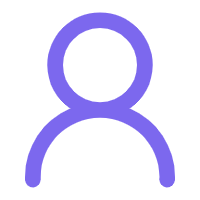
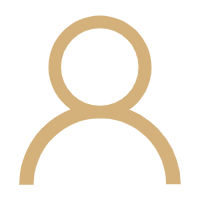
动态渲染商品列表数据。

Changed region(s): [[0.09, 0.06, 0.93, 0.96]]

diff --git a/src/view/homePage/index.vue b/src/view/homePage/index.vue
@@ -1,45 +1,44 @@
 <template>
-  <div>首页</div>
-  <div class="content-box">
-    <img :src=getImageUrl(product.fileName) alt="projuct" />
+  <div class="page">
+    <div class="content-box">
+      <ProductCard v-for="product in productList" :key="product.productId" :product="product"></ProductCard>
+    </div>
   </div>
 </template>
 
 <script setup lang="ts">
 import { computed, onMounted, ref } from "vue";
-import {getProductList} from '@/api/product'
+import { getProductList } from "@/api/product";
 import { useUserStore } from "@/stores/userStore";
-import { Result } from "@/utils/t-type";
+import { Product, Result } from "@/utils/t-type";
 import { showFailToast } from "vant";
-import { getImageUrl } from '@/utils/imageUtil'
 
-const userStore = useUserStore()
-const userId = computed(() => userStore.userInfo?.userId)
-const product = ref()
+
+const userStore = useUserStore();
+const userId = computed(() => userStore.userInfo?.userId);
+const productList = ref<Product[]>([]);
 
 onMounted(() => {
   getProductList({
-    pageNum:1,
-    pageSize:2,
-    userId:userId.value
-  }).then(({code,data,msg}:Result) => {
-    if(code === 200) {
+    pageNum: 1,
+    pageSize: 2,
+    userId: userId.value,
+  }).then(({ code, data, msg }: Result) => {
+    if (code === 200) {
       console.log(data[0]);
-      product.value = data[0]
-      console.log(product.value);
-      
+      productList.value = data;
     } else {
-      showFailToast(msg)
+      showFailToast(msg);
     }
-  })
-})
+  });
+});
 </script>
 
 <style scoped lang="scss">
-.content-box {
-  img {
-    width: 120px;
-    height: 160px;
-  }
+.page {
+  width: 100%;
+  height: 100vh;
+  background-color: #272727;
+  padding: 10px;
 }
 </style>

diff --git a/src/components/product/ProductCard.vue b/src/components/product/ProductCard.vue
@@ -1,0 +1,58 @@
+<template>
+  <div class="card">
+    <div class="image-box">
+        <img :src=getImageUrl(product.fileName) alt="product">
+    </div>
+    <div class="bottom-box">
+        <div class="description">
+            <div>{{product.description}}</div>
+        </div>
+        <div class="price">
+            <div>￥{{product.price}}</div>
+        </div>
+    </div>
+  </div>
+</template>
+
+<script setup lang="ts">
+import { Product } from "@/utils/t-type"
+import { getImageUrl } from "@/utils/imageUtil";
+import { computed } from "vue";
+
+const props = defineProps<{
+    product:Product
+}>()
+const product = computed(() => props.product)
+</script>
+
+<style scoped lang="scss">
+.card {
+    width: 175px;
+    background-color: black;
+    border-radius: 8px;
+
+    img {
+        width: 100%;
+        height: 200px;
+        border-radius: 8px;
+    }
+
+    .bottom-box {
+        width: 95%;
+        margin: auto;
+
+        .description {
+            margin-top: 5px;
+            margin-bottom: 5px;
+            color: white;
+            font-size: 14px;
+            font-weight: 600;
+        }
+
+        .price {
+            color: #D4B07A;
+            font-weight: 600;
+        }
+    }
+}
+</style>

diff --git a/src/utils/t-type.ts b/src/utils/t-type.ts
@@ -7,11 +7,22 @@ export interface Result {
 
 //用户信息接口
 export interface UserInfo {
-  userId: string; //用户id
+  userId: number; //用户id
   account: string; //用户账号
   password: string; //用户密码
   userName?: string; //用户名
   phone?: string; //用户电话
   address?: string; //用户地址
   userRole: string; //用户角色
+}
+
+//商品信息接口
+export interface Product {
+  productId: number
+  productCategory:string
+  productSecondCategory:string
+  productName:string
+  fileName:string
+  description:string
+  price:number
 }

diff --git a/components.d.ts b/components.d.ts
@@ -9,6 +9,7 @@ export {}
 declare module 'vue' {
   export interface GlobalComponents {
     HelloWorld: typeof import('./src/components/HelloWorld.vue')['default']
+    ProductCard: typeof import('./src/components/product/ProductCard.vue')['default']
     RouterLink: typeof import('vue-router')['RouterLink']
     RouterView: typeof import('vue-router')['RouterView']
     TabbarComponent: typeof import('./src/components/TabbarComponent.vue')['default']

diff --git a/src/components/TabbarComponent.vue b/src/components/TabbarComponent.vue
@@ -1,5 +1,5 @@
 <template>
-  <van-tabbar v-model="active" active-color="#7C68EE" v-if="tabbarShow">
+  <van-tabbar v-model="active" active-color="#D4B07A" v-if="tabbarShow">
     <van-tabbar-item replace to="/homePage">
       <span>首页</span>
       <template #icon="props">
